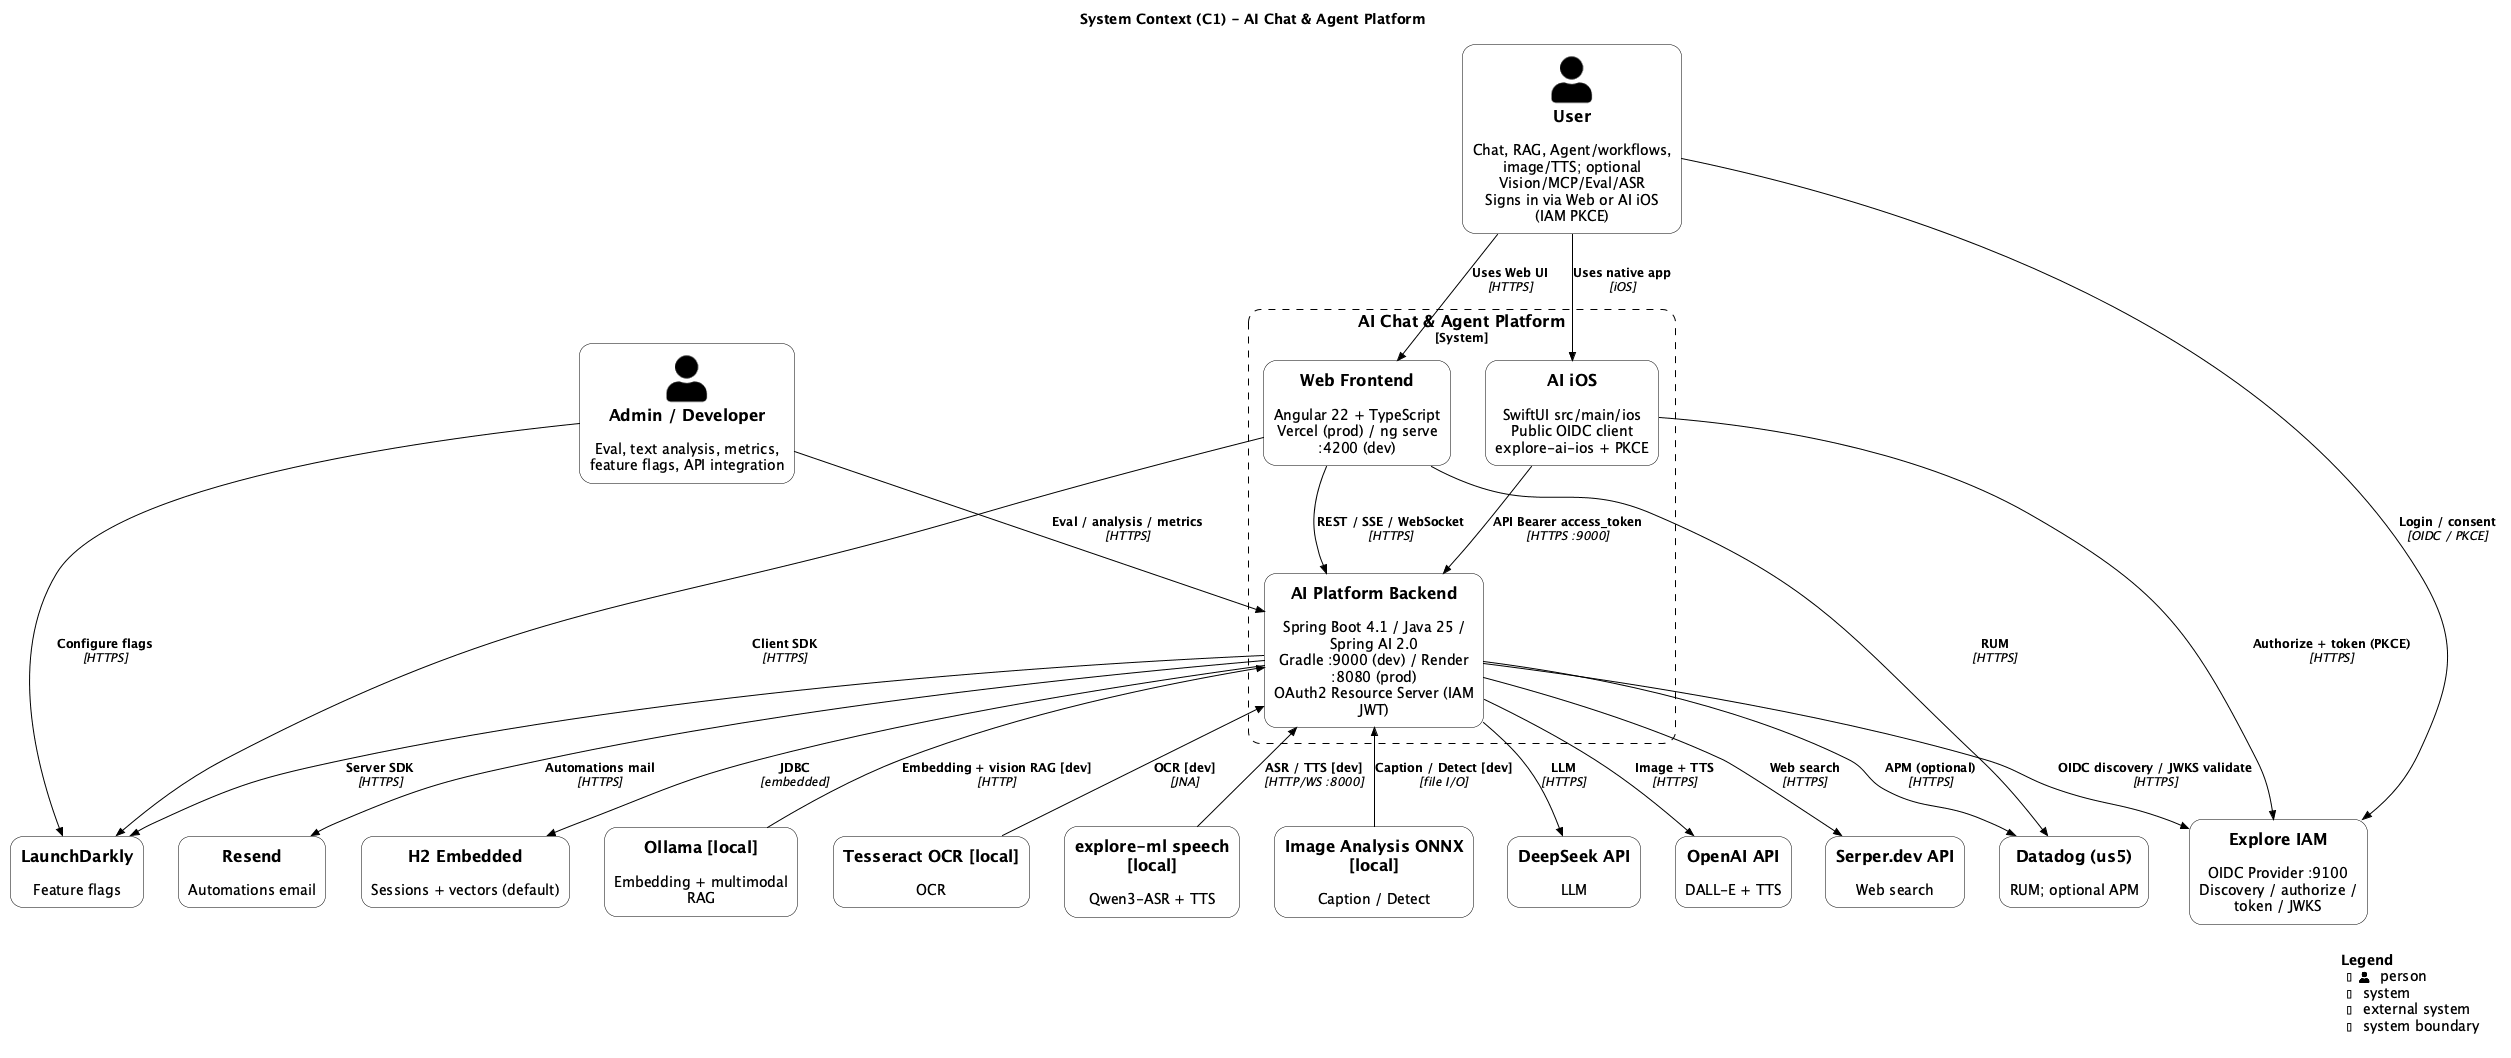
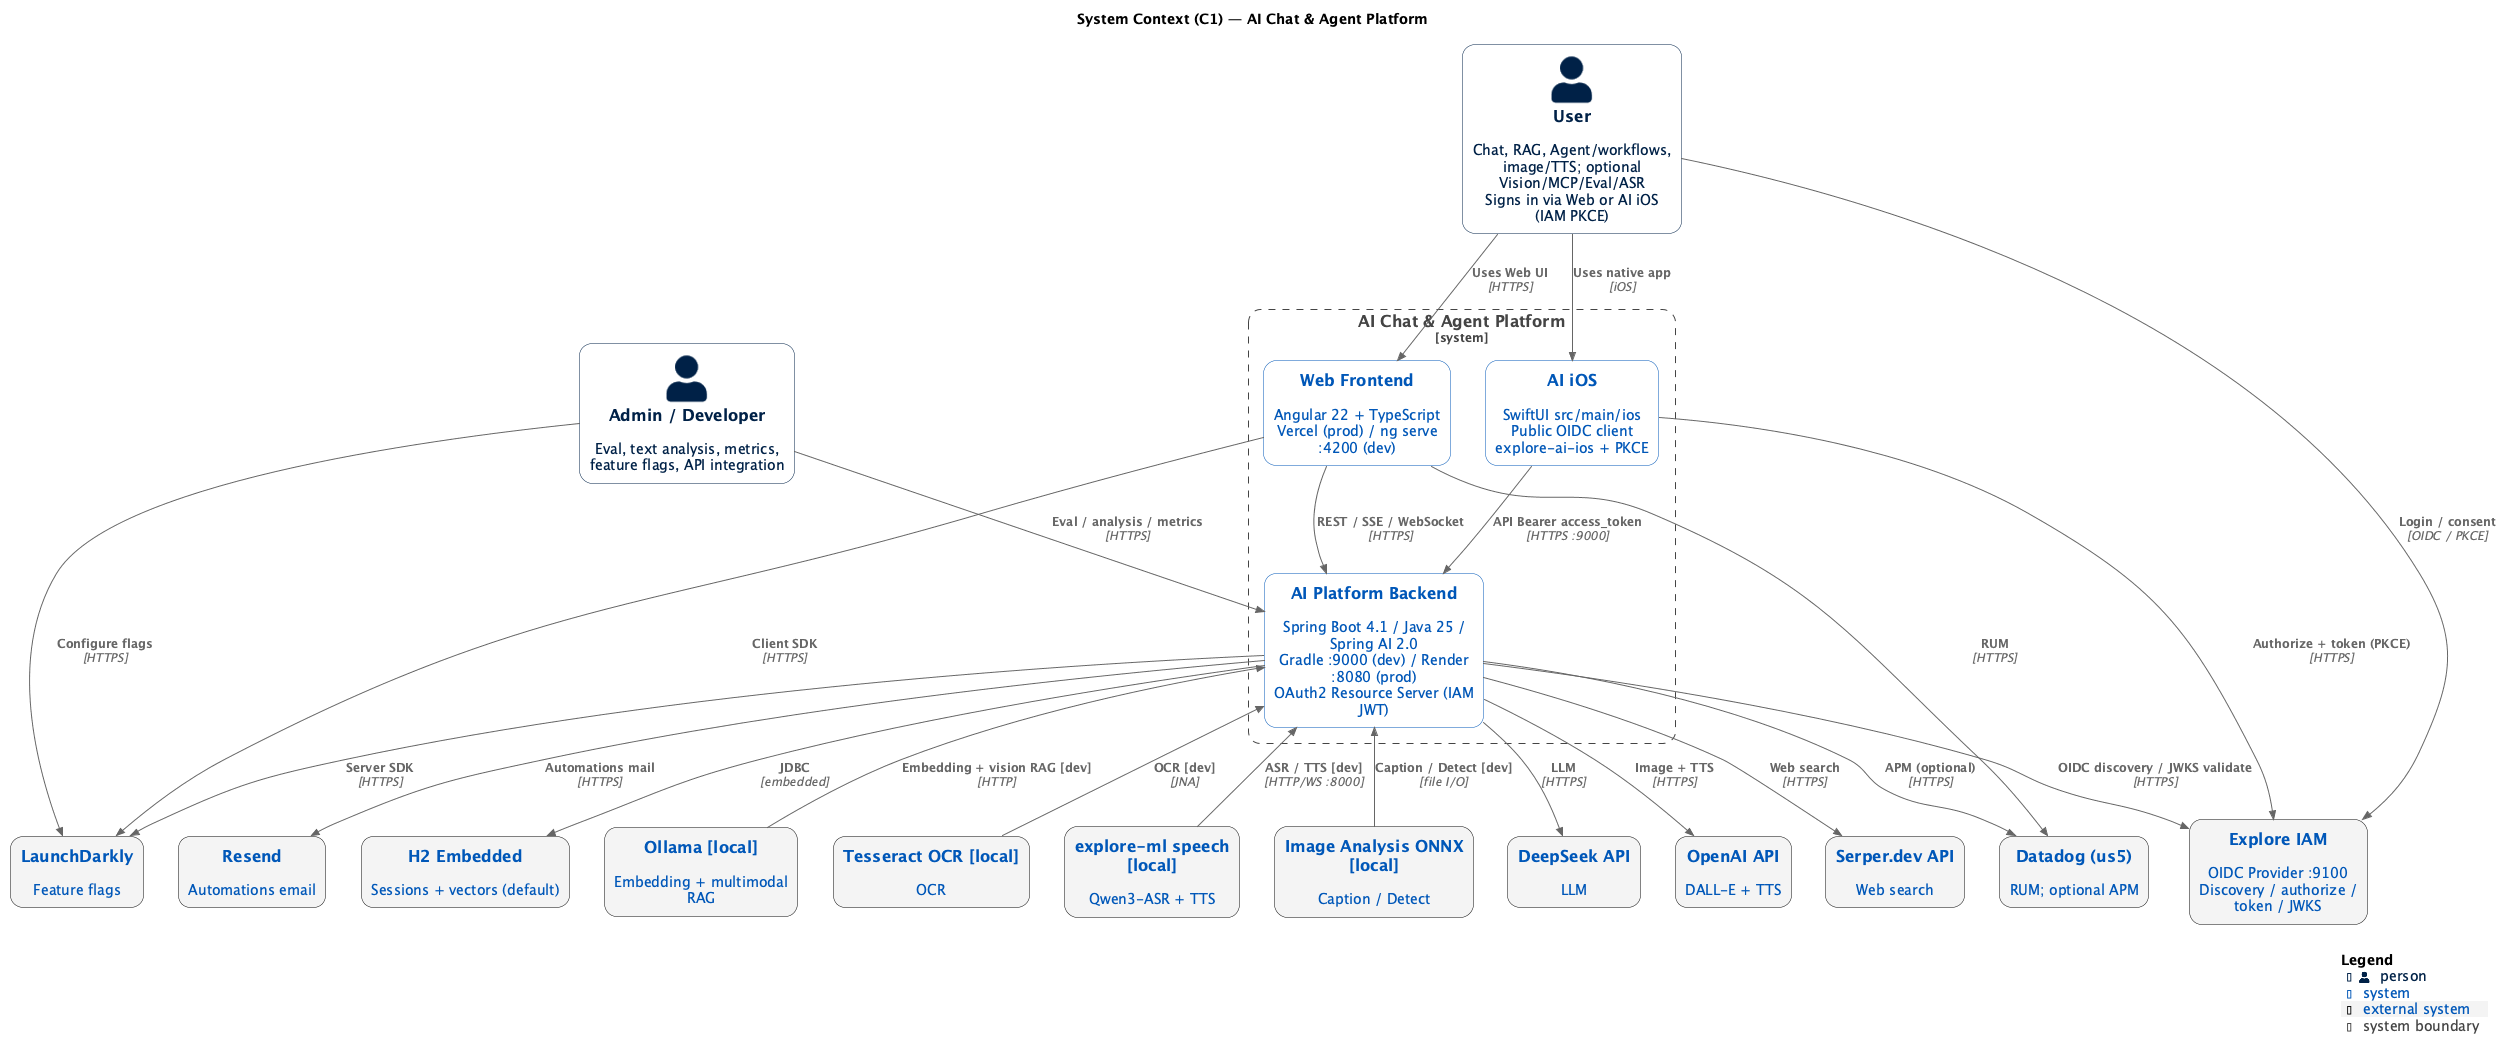
Align C4 diagram style with Explore IAM (#516)
The C4 diagrams should read the same across Explore projects. C1 now
uses the C4_blue_new theme like the other structural diagrams instead
of hand-set black-and-white overrides. The domain model uses the
inline plain white style that Explore IAM uses for its Code diagram.

Domain model packages are named after the business domains in the
Glossary (Domain Kernel, Common, Chat, RAG, Pipeline, Skill,
Automation, Account, MCP, Metrics, Tool Calling) rather than Java
package paths, so the diagram speaks the ubiquitous language.

References:

- https://c4model.com/diagrams/code
- https://github.com/plantuml-stdlib/C4-PlantUML/tree/master/themes

diff --git a/docs/developer/c4-model/README.md b/docs/developer/c4-model/README.md
@@ -4,14 +4,15 @@
 
 Source of truth: `.puml`。官方 C4: [c4model.com](https://c4model.com/)。库: [C4-PlantUML](https://github.com/plantuml-stdlib/C4-PlantUML)。
 
-## Visual tracks
+## Visual tracks (do not mix)
+
+与 [Explore IAM C4 模型](https://github.com/felixzhu97/explore-iam/tree/main/docs/developer/c4-model) 保持一致。
 
 | Track | Files | Style |
 | ----- | ----- | ----- |
-| **Structural C4** | C1–C3, Deployment | Official **`C4_blue_new`** theme（线框；勿与 zinc 混用） |
-| **Domain + Dynamics** | Code domain model, `C4-Dynamic-*` | [`style-zinc.puml`](style-zinc.puml)（白底 + 彩色边框，IAM 风格） |
-
-Do not mix `C4_blue_new` into domain/dynamic diagrams（也不要把 `style-zinc.puml` 用于 structural C4）。
+| **Structural C4** | C1–C3, Deployment | `C4_blue_new` theme (wireframe) |
+| **Domain model** | `C4-Code-Domain-Model.puml` | 白底黑字黑边框（内联 `!theme plain`）；package 以业务域命名（Glossary Preferred Term），不用 Java 包路径 |
+| **Dynamics** | `C4-Dynamic-*` | [`style-zinc.puml`](style-zinc.puml) 或内联白底（见各文件） |
 
 ## 文件
 
@@ -20,9 +21,9 @@ Do not mix `C4_blue_new` into domain/dynamic diagrams（也不要把 `style-zinc
 | `C1-Context.puml` | C1 | 系统上下文（含 Explore IAM、AI iOS、LaunchDarkly、Datadog） |
 | `C2-Container.puml` | C2 | 容器图（13 子域 + AI iOS + IAM） |
 | `C3-Component.puml` | C3 | **单图**：Web + iOS + Backend；`IamResourceServerConfig` |
-| `C4-Code-Domain-Model.puml` | **Code** | 领域模型（Entity 行为 + VO / Repository；对齐 `com.ai.*.domain`） |
+| `C4-Code-Domain-Model.puml` | **Code** | 领域模型（Entity 行为 + VO / Repository；按业务域分 package：Domain Kernel、Common、Chat、RAG…） |
 | `C4-Deployment.puml` | Deployment | **单图**：本地（IAM :9100 / AI :9000 / Simulator）+ 生产 |
-| `style-zinc.puml` | Shared | Code + Dynamic 共用样式（白底、标题色区分 stereotype） |
+| `style-zinc.puml` | Shared | Dynamic 序列图可选样式（Code 领域模型内联白底黑边框） |
 | `C4-Dynamic-Document-Upload.puml` | Dynamic | 文档上传 ETL |
 | `C4-Dynamic-Rag-Ask.puml` | Dynamic | RAG SSE 问答 |
 | `C4-Dynamic-Chat-Tools.puml` | Dynamic | Chat 工具 SSE + A2UI 图表 |
